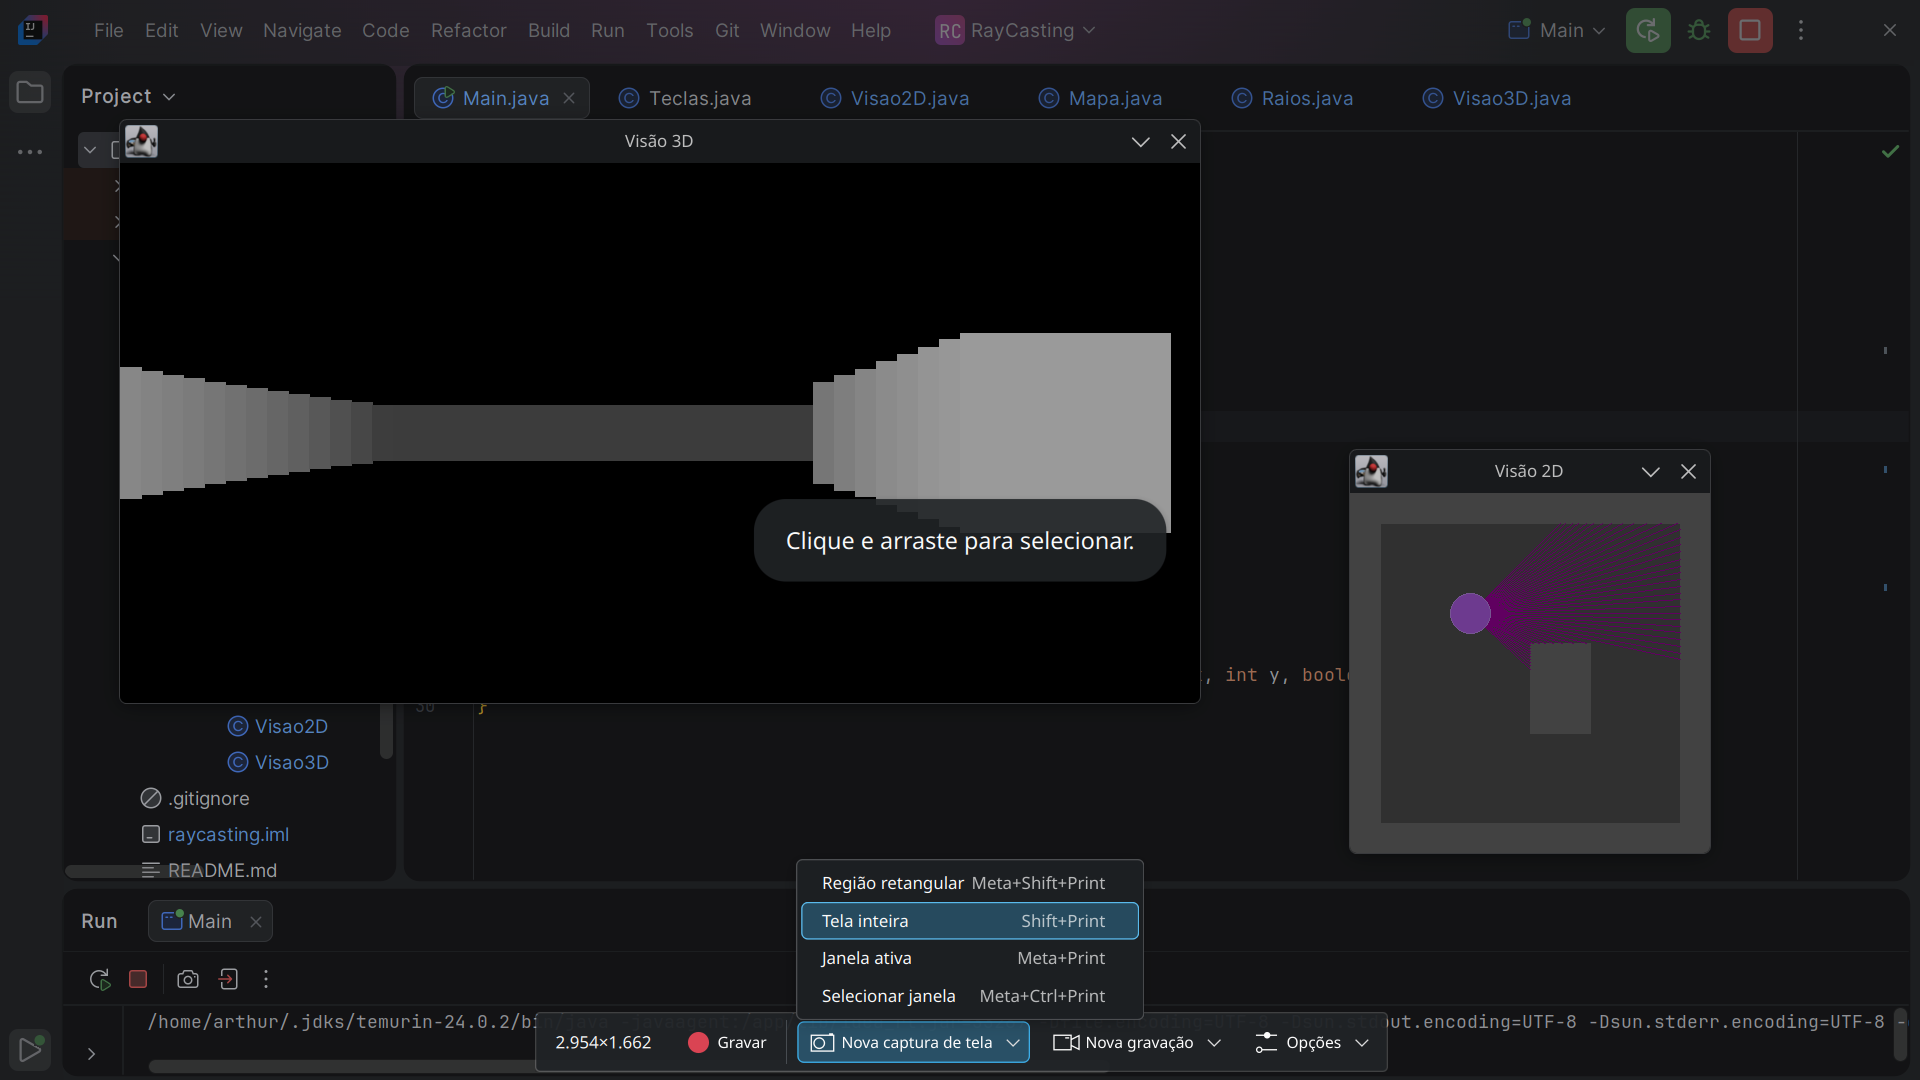
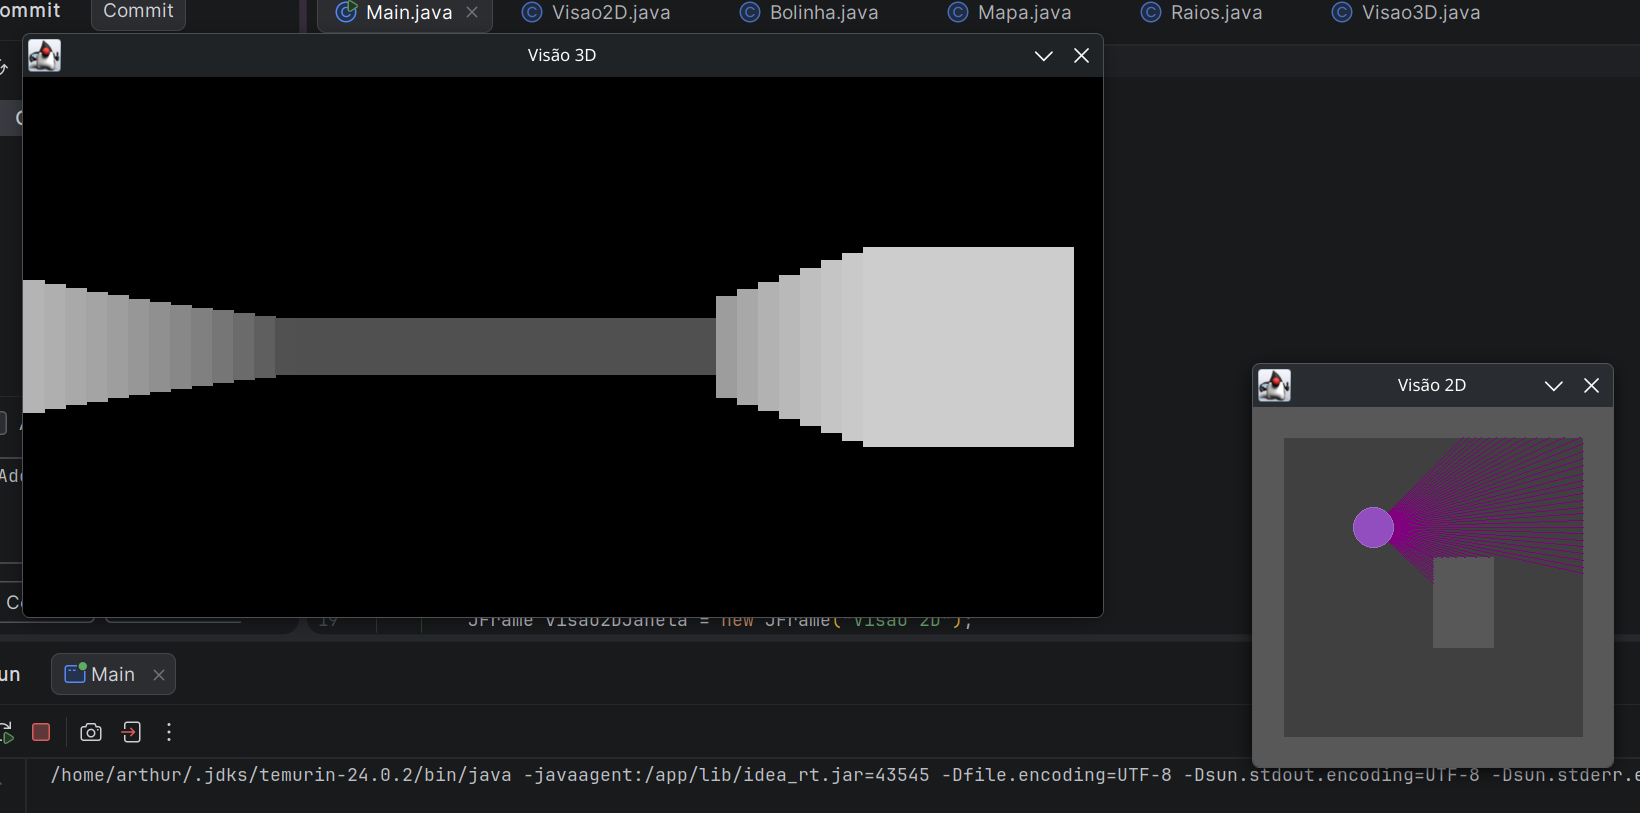
adiciona projetos

diff --git a/index.html b/index.html
@@ -33,12 +33,12 @@
             <div class="boxes">
                 <div class="boxWrapper">
                     <div class="box">
-                        <a href="https://github.com/reisarthurdev/RayCasting">
-                            <img src="assets/img/rayCasting.png" alt="RayCasting"/>
+                        <a href="https://github.com/reisarthurdev/Scaffale">
+                            <img src="assets/img/scaffale.png" alt="Scaffale"/>
                         </a>
                     </div>
-                    <h3>Algoritmo Ray Casting</h3>
-                    <p data-i18n="tatakonDesc">Ray Casting descrição.</p>
+                    <h3 data-i18n="scaffale">Scaffale - Diário de Leituras Pessoal</h3>
+                    <p data-i18n="scaffaleDesc">Scaffale Descrição.</p>
                 </div>
 
                 <div class="boxWrapper">
@@ -49,6 +49,28 @@
                     </div>
                     <h3 data-i18n="portfolio">Portfólio</h3>
                     <p data-i18n="portfolioDesc">Portfólio descrição.</p>
+                </div>
+            </div>
+
+            <div class="boxes">
+                <div class="boxWrapper">
+                    <div class="box">
+                        <a href="https://github.com/reisarthurdev/RayCasting">
+                            <img src="assets/img/rayCasting.png" alt="RayCasting"/>
+                        </a>
+                    </div>
+                    <h3 data-i18n="rayCasting">Algoritmo Ray Casting</h3>
+                    <p data-i18n="tatakonDesc">Ray Casting descrição.</p>
+                </div>
+
+                <div class="boxWrapper">
+                    <div class="box">
+                        <a href="https://github.com/reisarthurdev/ServidorUbuntu">
+                            <img src="assets/img/ubuntuServer.png" alt="Servidor Ubuntu"/>
+                        </a>
+                    </div>
+                    <h3 data-i18n="ubuntuServer">Servidor Ubuntu</h3>
+                    <p data-i18n="ubuntuServerDesc">Servidor Ubuntu descrição.</p>
                 </div>
             </div>
         </main>
